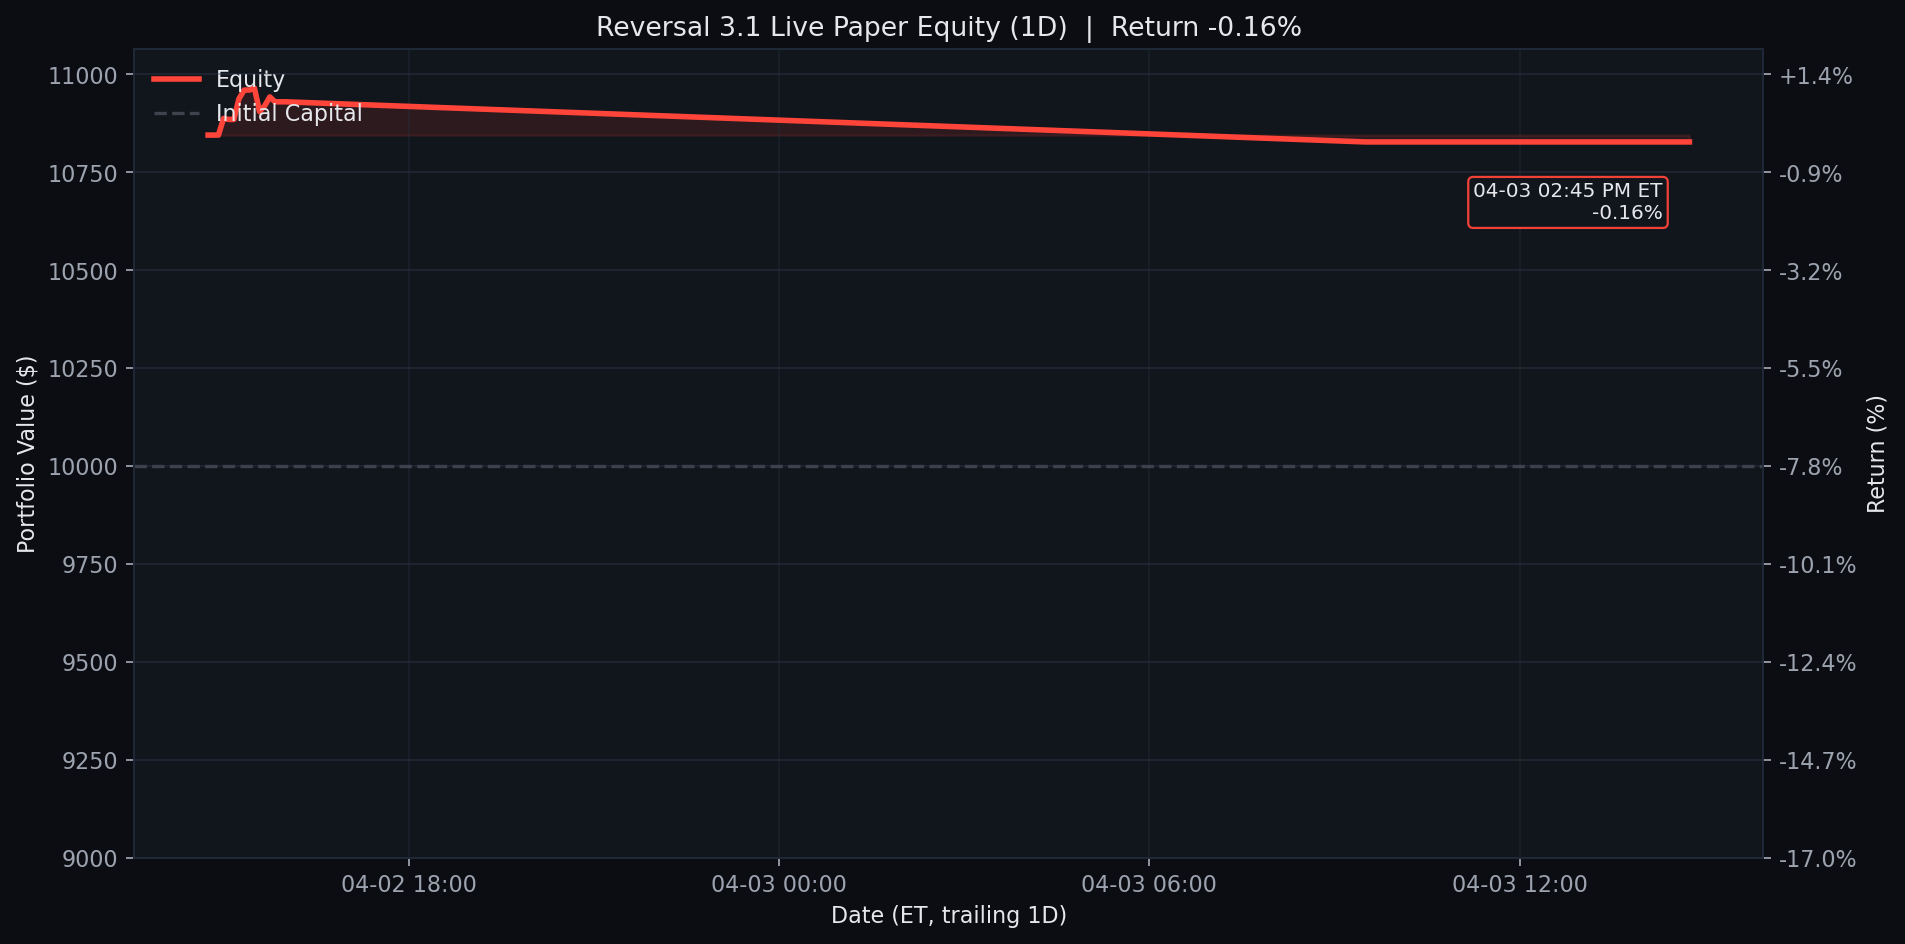
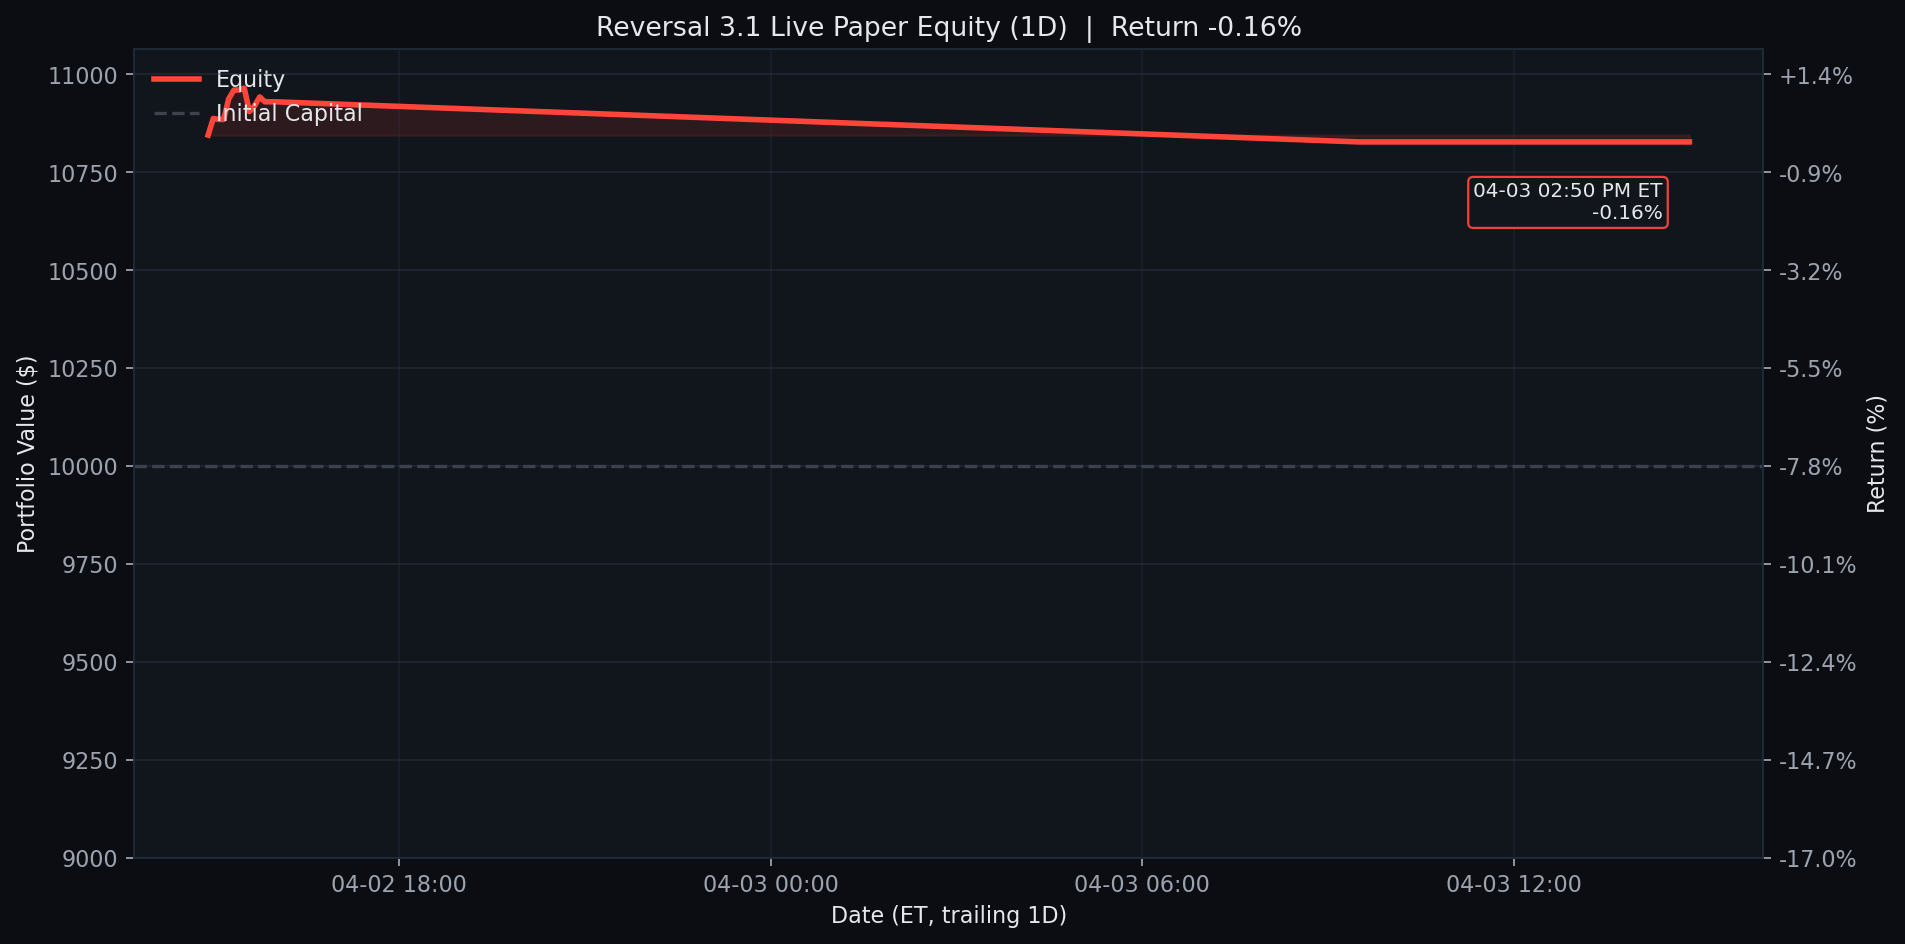
Update Reversal 3.1 live paper test 2026-04-03 14:50 ET

diff --git a/results/reversal_3_1_live/README.md b/results/reversal_3_1_live/README.md
@@ -1,7 +1,7 @@
 # Reversal 3.1 Live Paper Test
 
-Last updated (ET): `2026-04-03 14:45:03 EDT`
-Last processed slot: `manual_refresh`
+Last updated (ET): `2026-04-03 14:50:06 EDT`
+Last processed slot: `entry_1500`
 
 ## Active Configuration
 
@@ -19,17 +19,18 @@ Last processed slot: `manual_refresh`
 
 ## Portfolio Snapshot
 
-- Cash: `$8,102.50`
+- Cash: `$2,892.50`
 - Equity: `$10,827.50`
 - Realized PnL: `$845.00`
 - Unrealized PnL: `$-17.50`
-- Open positions: `1`
+- Open positions: `2`
 
 ## Open Positions
 
 ```text
-ticker    contract_symbol entry_trade_date  business_days_held  entry_option_price  current_option_price  entry_spot  current_spot  unrealized_pnl  unrealized_return_pct  success_rate  matched_signals  current_drop_pct  entry_iv_pct  current_iv_pct  rolling_sigma_20d_pct
-   WDC WDC260501C00295000       2026-04-02                   1               27.42                 27.25      294.77         294.2           -17.5                  -0.64         97.22               36              0.99         81.84           82.37                  91.06
+ticker     contract_symbol entry_trade_date  business_days_held  entry_option_price  current_option_price  entry_spot  current_spot  unrealized_pnl  unrealized_return_pct  success_rate  matched_signals  current_drop_pct  entry_iv_pct  current_iv_pct  rolling_sigma_20d_pct
+  REGN REGN260515C00760000       2026-04-03                   0               52.10                 52.10      761.39        761.39             0.0                   0.00         93.33               15              2.04         51.67           51.67                  27.37
+   WDC  WDC260501C00295000       2026-04-02                   1               27.42                 27.25      294.77        294.20           -17.5                  -0.64         97.22               36              0.99         81.84           82.37                  91.06
 ```
 
 ## Today's Closed Trades (2026-04-03)
@@ -57,17 +58,17 @@ ticker  success_rate_%  matched_signals  current_drop_%  target_rebound_$  targe
 ## Recent Events
 
 ```text
-                    timestamp_et        slot   event_type                          detail
-2026-04-03T14:40:05.887311-04:00 manage_1430 slot_skipped {"reason": "already_processed"}
-2026-04-03T14:35:05.880366-04:00 manage_1430 slot_skipped {"reason": "already_processed"}
-2026-04-03T14:30:00.896990-04:00 manage_1430 slot_skipped {"reason": "already_processed"}
-2026-04-03T14:25:01.014165-04:00 manage_1430 slot_skipped {"reason": "already_processed"}
-2026-04-03T14:10:05.890389-04:00 manage_1400 slot_skipped {"reason": "already_processed"}
-2026-04-03T14:05:03.896646-04:00 manage_1400 slot_skipped {"reason": "already_processed"}
-2026-04-03T14:00:03.898829-04:00 manage_1400 slot_skipped {"reason": "already_processed"}
-2026-04-03T13:55:05.882580-04:00 manage_1400 slot_skipped {"reason": "already_processed"}
-2026-04-03T13:40:05.891644-04:00 manage_1330 slot_skipped {"reason": "already_processed"}
-2026-04-03T13:35:05.895244-04:00 manage_1330 slot_skipped {"reason": "already_processed"}
+                    timestamp_et        slot   event_type                                                                                                                                                                           detail
+2026-04-03T14:50:06.418885-04:00  entry_1500        entry {"allocated_cash": 5210.0, "contract_symbol": "REGN260515C00760000", "contracts": 1, "entry_option_price": 52.1, "matched_signals": 15, "success_rate": 93.33, "ticker": "REGN"}
+2026-04-03T14:40:05.887311-04:00 manage_1430 slot_skipped                                                                                                                                                  {"reason": "already_processed"}
+2026-04-03T14:35:05.880366-04:00 manage_1430 slot_skipped                                                                                                                                                  {"reason": "already_processed"}
+2026-04-03T14:30:00.896990-04:00 manage_1430 slot_skipped                                                                                                                                                  {"reason": "already_processed"}
+2026-04-03T14:25:01.014165-04:00 manage_1430 slot_skipped                                                                                                                                                  {"reason": "already_processed"}
+2026-04-03T14:10:05.890389-04:00 manage_1400 slot_skipped                                                                                                                                                  {"reason": "already_processed"}
+2026-04-03T14:05:03.896646-04:00 manage_1400 slot_skipped                                                                                                                                                  {"reason": "already_processed"}
+2026-04-03T14:00:03.898829-04:00 manage_1400 slot_skipped                                                                                                                                                  {"reason": "already_processed"}
+2026-04-03T13:55:05.882580-04:00 manage_1400 slot_skipped                                                                                                                                                  {"reason": "already_processed"}
+2026-04-03T13:40:05.891644-04:00 manage_1330 slot_skipped                                                                                                                                                  {"reason": "already_processed"}
 ```
 
 ## Equity Curves

diff --git a/README.md b/README.md
@@ -3,18 +3,19 @@
 <!-- reversal-3.1-live:start -->
 ## Reversal 3.1 Live Paper Test
 
-- Last updated (ET): `2026-04-03 14:45:03 EDT`
-- Equity: `$10,827.50` | Realized: `$845.00` | Unrealized: `$-17.50` | Open positions: `1`
+- Last updated (ET): `2026-04-03 14:50:06 EDT`
+- Equity: `$10,827.50` | Realized: `$845.00` | Unrealized: `$-17.50` | Open positions: `2`
 - Today closed trades: `0`
-- Current slot: `manual_refresh`
+- Current slot: `entry_1500`
 - Universe: `qqq_plus_leverage_etfs`
 - Chart windows: `1D / 1W / 1M` (default open panel: `1W`)
 
 ### Current Open Positions
 
 ```text
-ticker    contract_symbol  current_option_price  unrealized_pnl  unrealized_return_pct  business_days_held
-   WDC WDC260501C00295000                 27.25           -17.5                  -0.64                   1
+ticker     contract_symbol  current_option_price  unrealized_pnl  unrealized_return_pct  business_days_held
+  REGN REGN260515C00760000                 52.10             0.0                   0.00                   0
+   WDC  WDC260501C00295000                 27.25           -17.5                  -0.64                   1
 ```
 
 <details>
